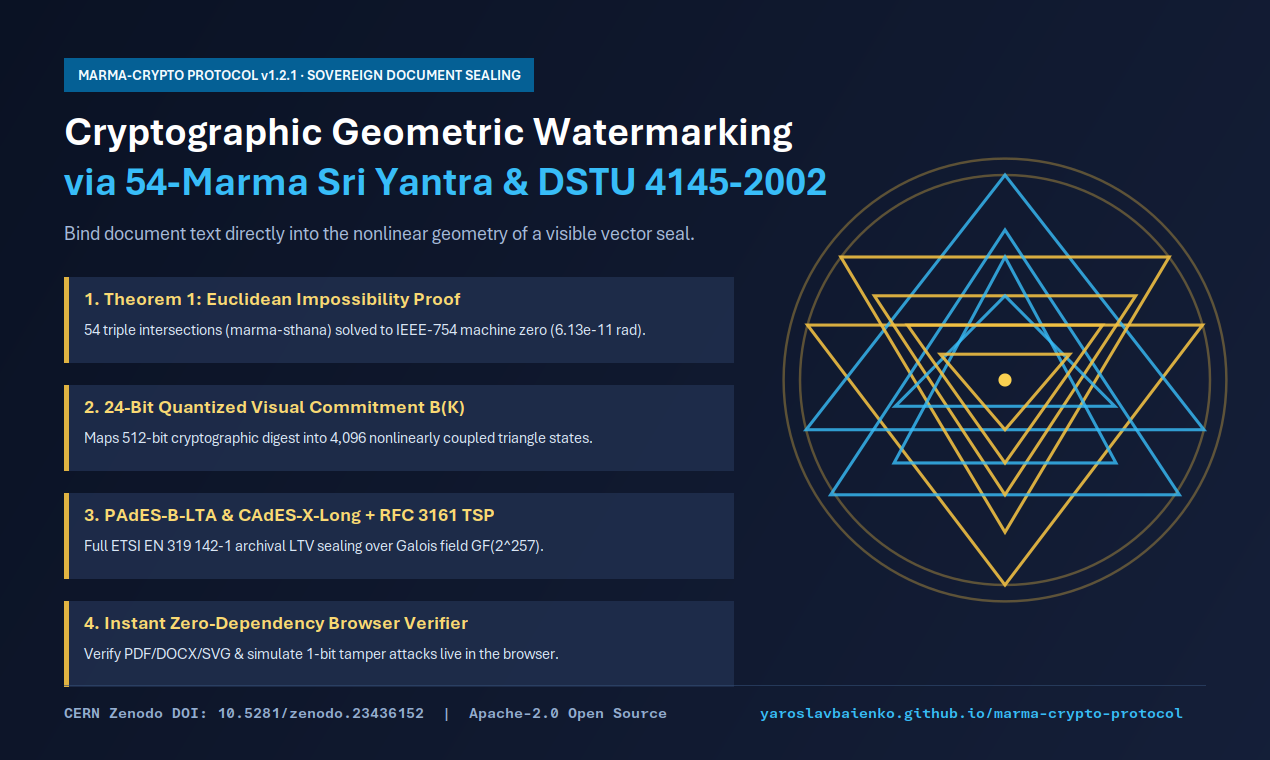
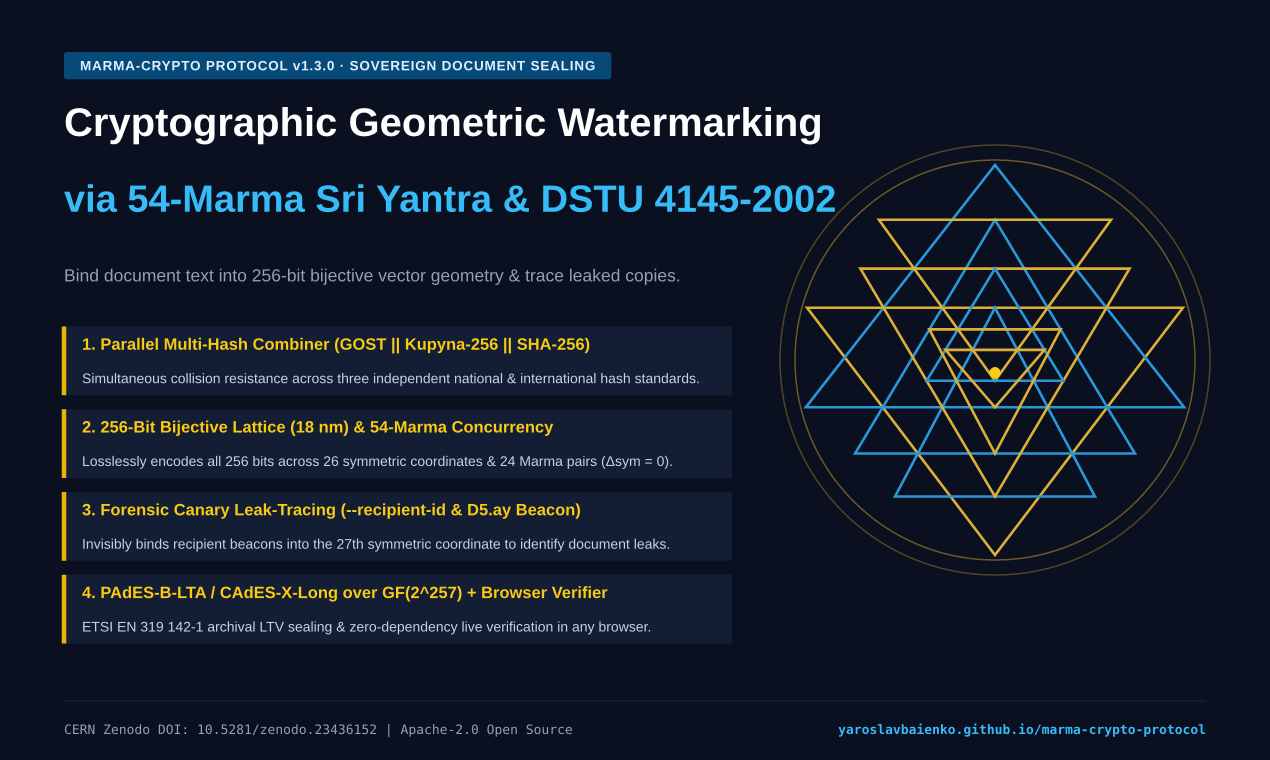
docs(og): update OpenGraph preview card to v1.3.0 for LinkedIn Featured

Changed region(s): [[0.0307, 0.0605, 0.9827, 0.9684], [0.6142, 0.9382, 0.952, 0.9684]]

diff --git a/docs/index.html b/docs/index.html
@@ -13,7 +13,7 @@
   <meta property="og:title" content="Marma-Crypto Protocol (v1.3.0) — Sri Yantra × DSTU 4145-2002 Cryptographic Watermark" />
   <meta property="og:description" content="Bind any PDF, DOCX, or SVG to the 9-triangle nonlinear planimetry of Sri Yantra (54 triple marmas, 256-bit bijective geometry, Canary leak-tracing) and Ukrainian national elliptic curves DSTU 4145-2002 over GF(2^257)." />
   <meta property="og:url" content="https://yaroslavbaienko.github.io/marma-crypto-protocol/" />
-  <meta property="og:image" content="https://yaroslavbaienko.github.io/marma-crypto-protocol/og_card.png" />
+  <meta property="og:image" content="https://yaroslavbaienko.github.io/marma-crypto-protocol/og_card.png?v=1.3.0" />
   <meta property="og:image:width" content="1270" />
   <meta property="og:image:height" content="760" />
   <meta name="twitter:card" content="summary_large_image" />
@@ -21,7 +21,7 @@
   <meta name="twitter:creator" content="@baienko" />
   <meta name="twitter:title" content="Marma-Crypto Protocol (v1.3.0) — Sri Yantra × DSTU 4145-2002 Cryptographic Watermark" />
   <meta name="twitter:description" content="256-bit bijective geometric steganography (54 triple marmas) + Parallel Multi-Hash Combiner + Canary Leak-Tracing + DSTU 4145-2002 over GF(2^257)." />
-  <meta name="twitter:image" content="https://yaroslavbaienko.github.io/marma-crypto-protocol/og_card.png" />
+  <meta name="twitter:image" content="https://yaroslavbaienko.github.io/marma-crypto-protocol/og_card.png?v=1.3.0" />
 
   <!-- Google Scholar Highwire Press Citation Meta Tags -->
   <meta name="citation_title" content="The Marma-Crypto Protocol: A Cryptographic-Geometric Watermark Based on the Nonlinear Planimetry of Sri Yantra and Elliptic Curves DSTU 4145-2002 over GF(2^257)" />
